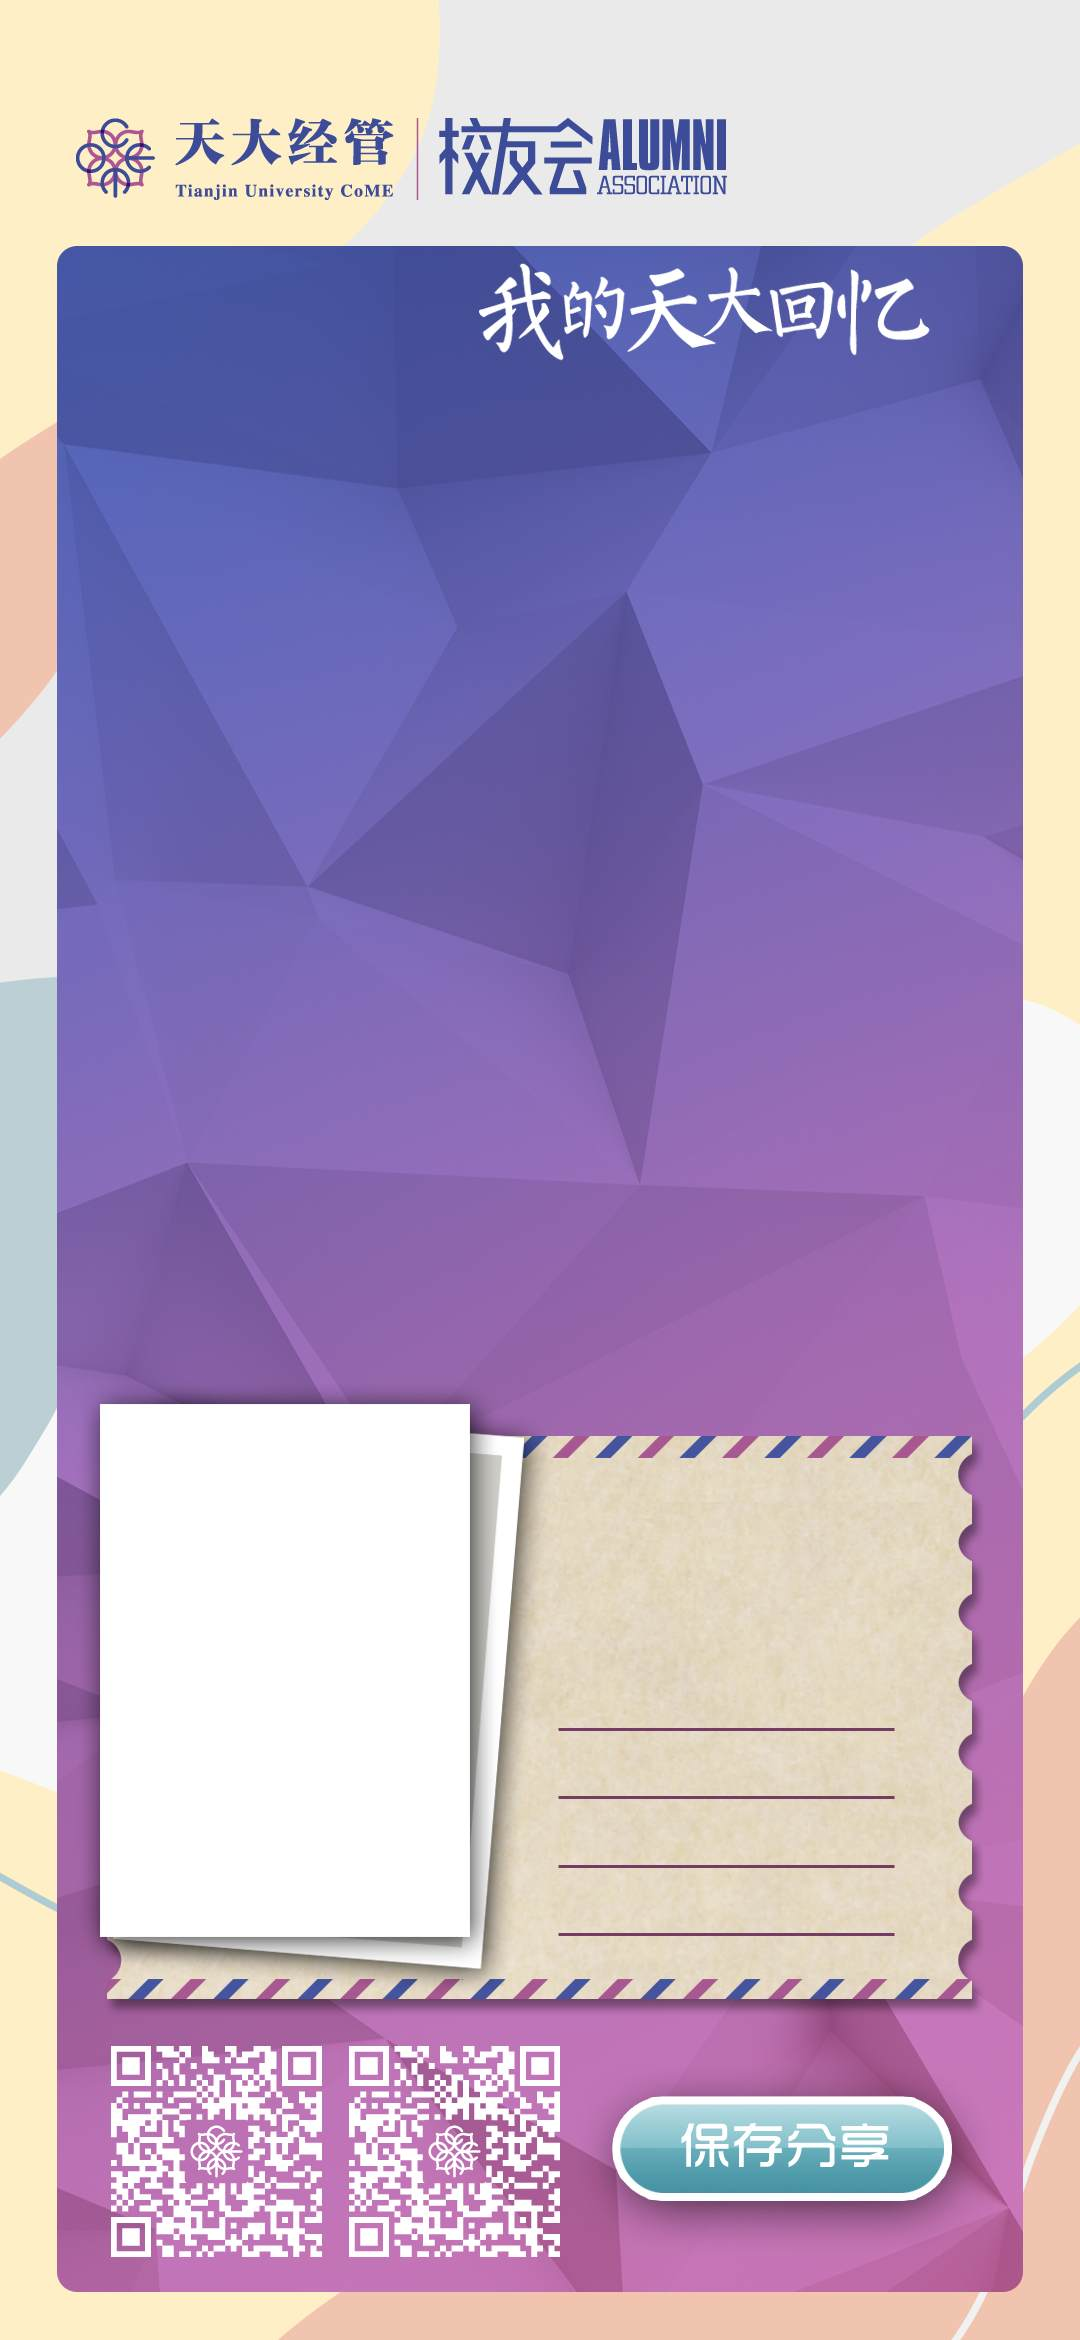
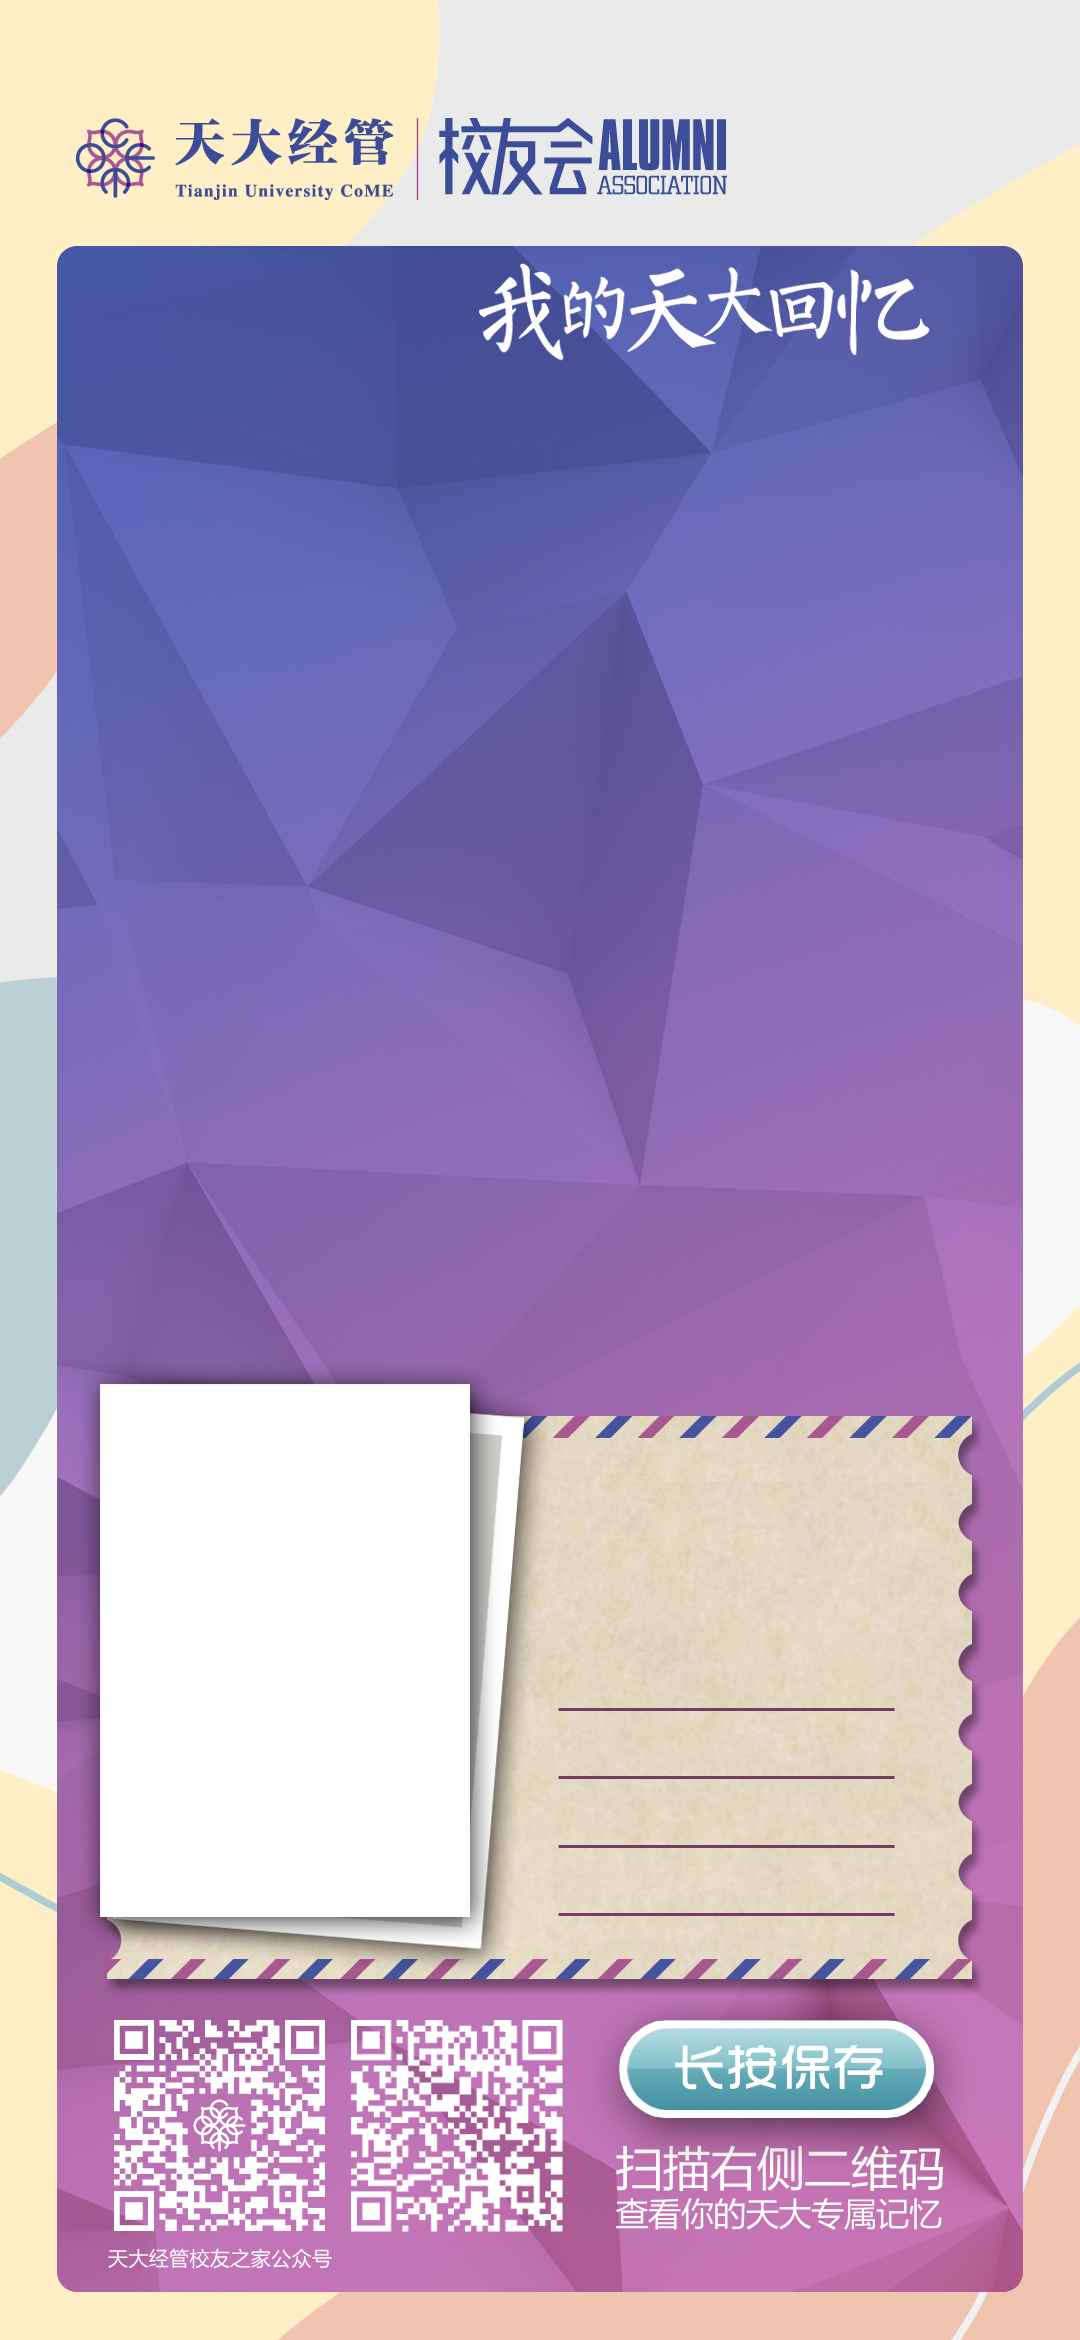
finshed6

diff --git a/src/App.vue b/src/App.vue
@@ -478,14 +478,7 @@ export default {
   text-align: center;
   overflow: hidden;
 }
-.getImg{
-  font-size: 17px;
-  position: absolute;
-  left: 55%;
-  top: 89%;
-  width: 100%;
-  height: 100%;
-}
+
 .share-class{
   width: 100%;
   height: 100vh;
@@ -495,7 +488,7 @@ export default {
   line-height: 3vh;
   position: absolute;
   left: 52%;
-  top: 71%;
+  top: 70.4%;
   width: 30%;
   height: 40%;
   color:maroon;
@@ -574,35 +567,35 @@ export default {
 .iimg5{
   position: absolute;
   left: 11%;
-  top: 60.8%;
+  top: 60%;
   width: 30%;
   height: 21%;
 }
 .iimg4{
   position: absolute;
   left: 11%;
-  top: 60.8%;
+  top: 60%;
   width: 30%;
   height: 21%;
 }
 .iimg3{
   position: absolute;
   left: 11%;
-  top: 60.8%;
+  top: 60%;
   width: 30%;
   height: 21%;
 }
 .iimg2{
   position: absolute;
   left: 11%;
-  top: 60.8%;
+  top: 60%;
   width: 30%;
   height: 21%;
 }
 .iimg1{
   position: absolute;
   left: 11%;
-  top: 60.8%;
+  top: 60%;
   width: 30%;
   height: 21%;
 }

diff --git a/src/music.vue b/src/music.vue
@@ -77,9 +77,9 @@ export default {
   height: 10%;
   position: fixed;
   z-index: 2000;
-  top: 5%;
-  right: 5%;
-  
-  background-size: 100%;
+  top: 8.5%;
+  right: 1%;
+  background: url("./assets/unmusic.png") no-repeat;
+  background-size: 55%;
 }
 </style>
